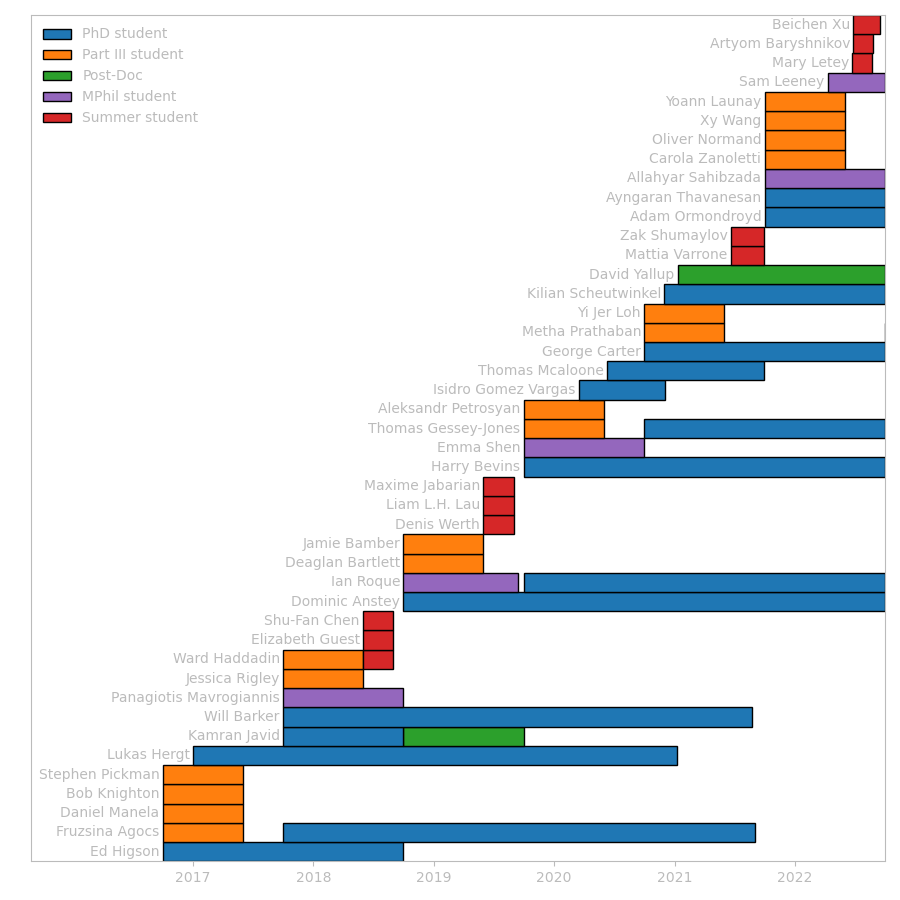
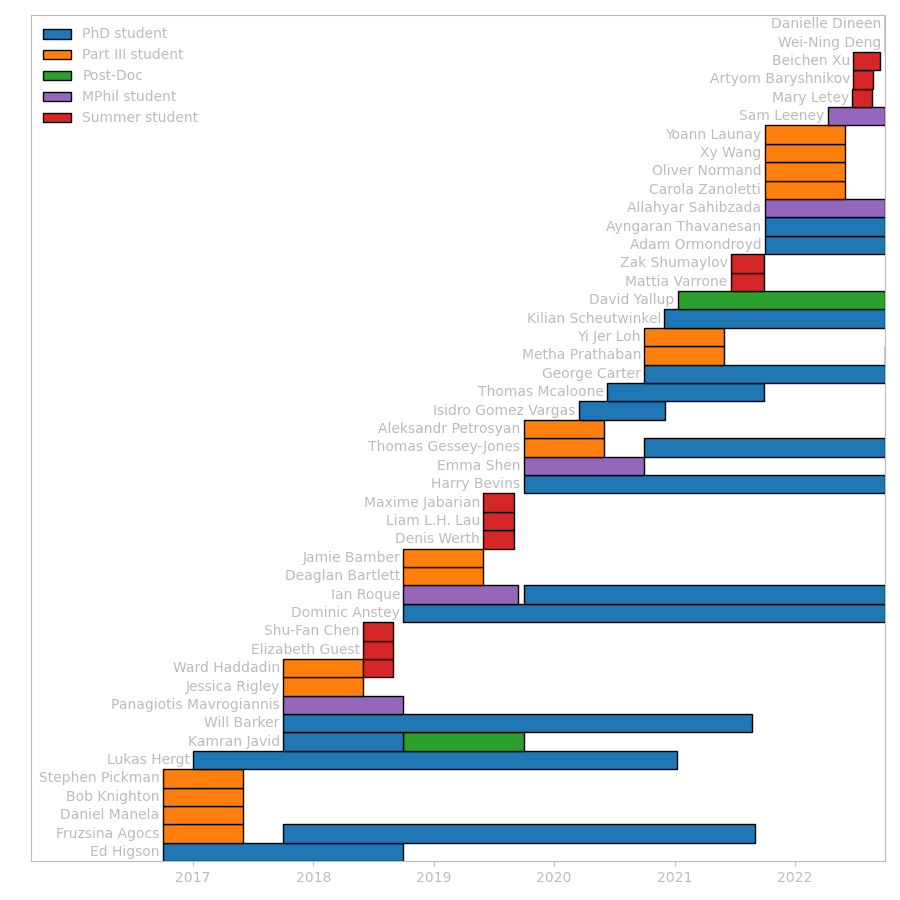
Updated

Changed region(s): [[0.0311, 0.0, 0.9956, 0.9644], [0.1244, 0.7467, 0.1867, 0.8089]]

diff --git a/assets/students/students.html b/assets/students/students.html
@@ -237,22 +237,6 @@
         </ul>
       </p>
     </div>
-    <div class="grid-item">
-      <img src="/assets/students/images/dominic_anstey.jpg" />
-    </div>
-    <div class="grid-item">
-      <p>
-        <font size="+2">Dominic Anstey</font>
-      </p>
-      <p>
-        <ul>
-          <li>PhD student from Oct 2018<ul><li>co-supervised with <a href="https://www.phy.cam.ac.uk/directory/dr-eloy-de-lera-acedo">Eloy de Lera Acedo</a></li></ul></li>
-          <li>
-            <a href="https://arxiv.org/search/?query=handley%2C+w%3B+Anstey%2CD&searchtype=author">Shared research papers (4)</a>
-          </li>
-        </ul>
-      </p>
-    </div>
   </div>
 </div>
 <div class="wrapper" style="margin-top:30pt">
@@ -395,6 +379,22 @@
           <ul>
             <li>Nov 2021: Postdoc at UNAM (mexico)</li>
           </ul>
+        </ul>
+      </p>
+    </div>
+    <div class="grid-item">
+      <img src="/assets/students/images/dominic_anstey.jpg" />
+    </div>
+    <div class="grid-item">
+      <p>
+        <font size="+2">Dominic Anstey</font>
+      </p>
+      <p>
+        <ul>
+          <li>PhD student from Oct 2018 to Sep 2022<ul><li>co-supervised with <a href="https://www.phy.cam.ac.uk/directory/dr-eloy-de-lera-acedo">Eloy de Lera Acedo</a></li></ul></li>
+          <li>
+            <a href="https://arxiv.org/search/?query=handley%2C+w%3B+Anstey%2CD&searchtype=author">Shared research papers (4)</a>
+          </li>
         </ul>
       </p>
     </div>

diff --git a/assets/students/timeline.py b/assets/students/timeline.py
@@ -13,7 +13,7 @@ plt.rcParams['ytick.color'] = grey
 plt.rcParams['ytick.color'] = grey
 
 
-students = [s for s in students if s.start < datetime.date.today()]
+students = [s for s in students if s.start <= datetime.date.today()]
 students = sorted(students, key=lambda s: (s.start, min([(l.start, l.seniority) for l in s.levels])[1]))
 
 colors = {'partiii': 'C1',
